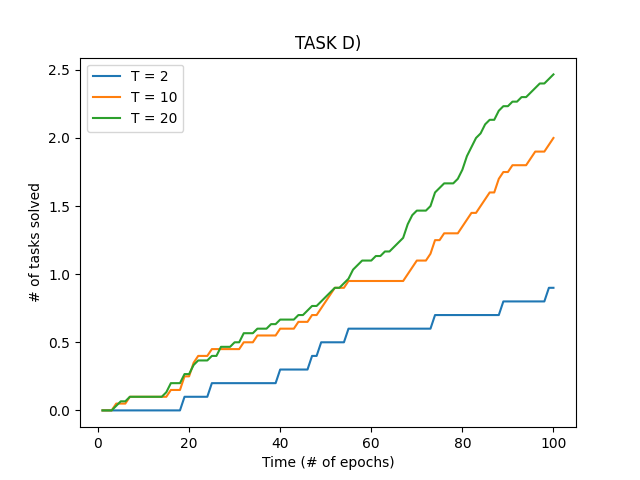
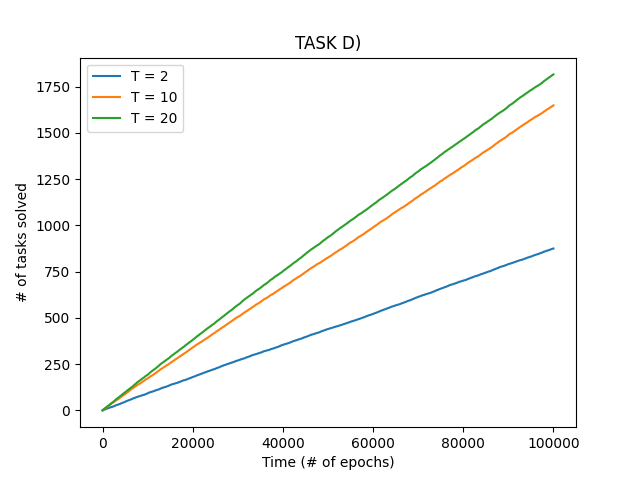
add stuff

diff --git a/tek5010/oblig1/main.py b/tek5010/oblig1/main.py
@@ -270,14 +270,14 @@ def experiment_6():
 
 if __name__ == "__main__":
     print("\n################### TASK A) ###################")
-    experiment_1()
+    #experiment_1()
     print("\n################### TASK B) ###################")
-    experiment_2()
+    #experiment_2()
     print("\n################### TASK C) ###################")
-    experiment_3()
+    #experiment_3()
     print("\n################### TASK D) ###################")
     experiment_4()
     print("\n################### TASK E) ###################")
-    experiment_5()
+    #experiment_5()
     print("\n################### TASK F) ###################")
-    experiment_6()
+    #experiment_6()

diff --git a/tek5010/oblig1/constants.py b/tek5010/oblig1/constants.py
@@ -20,7 +20,7 @@ NUM_AGENTS_C = [3, 5, 10, 20, 30]
 
 # Task d)
 NUM_EPISODES_D = 10 # Number of episodes
-NUM_EPOCHS_D = int(1.5e4)
+NUM_EPOCHS_D = int(1e5)
 NUM_TASKS_D = [2, 10, 20] # Number of tasks
 TASK_CAPACITY_D = 3
 TASK_RADIUS_D = 50 
